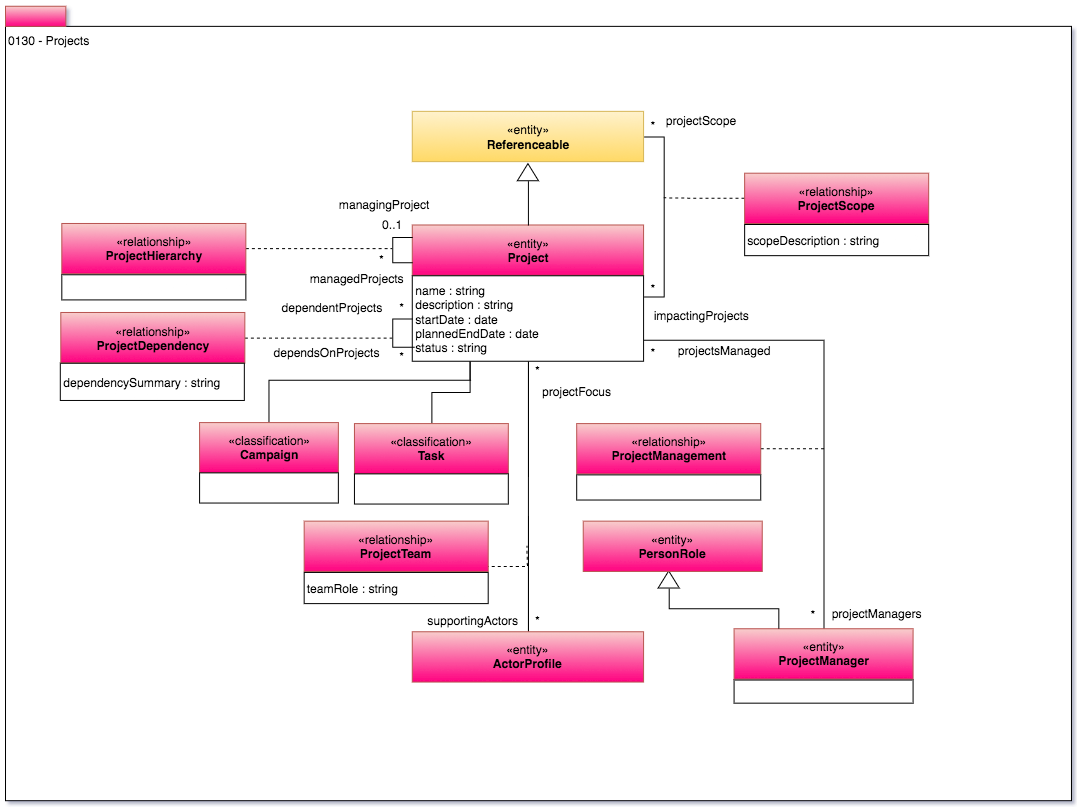
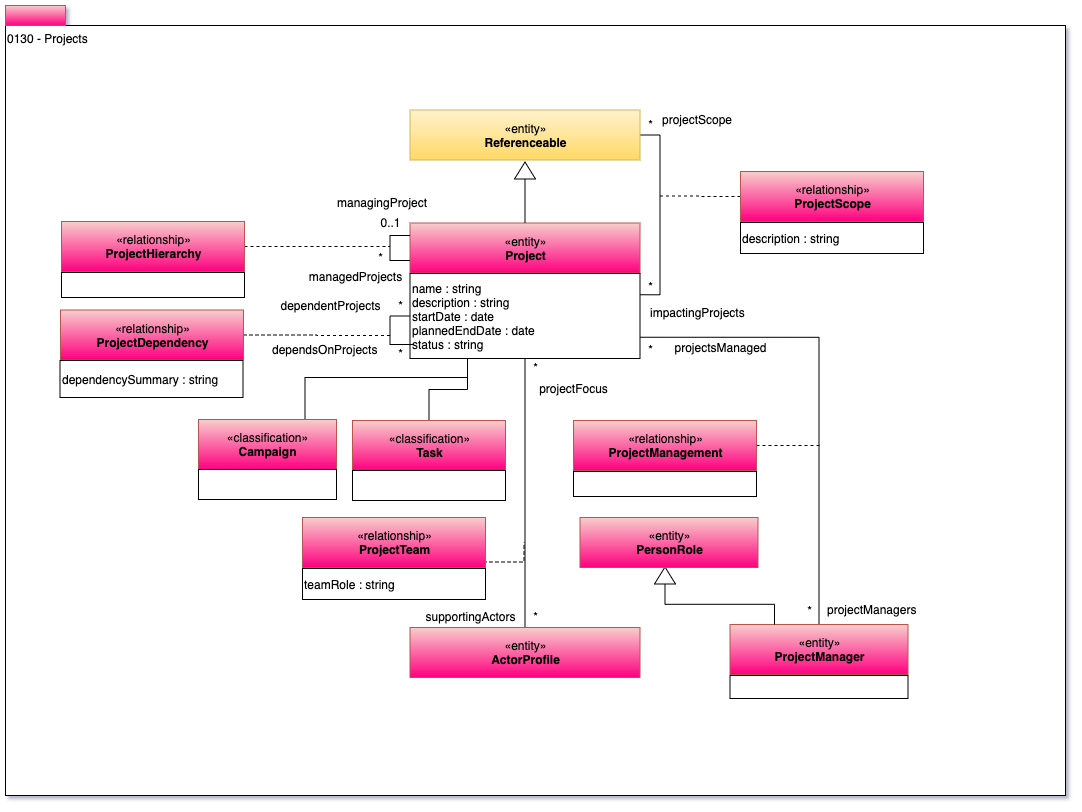
#2942 add documentation

diff --git a/open-metadata-publication/website/open-metadata-types/0130-Projects.md b/open-metadata-publication/website/open-metadata-types/0130-Projects.md
@@ -21,6 +21,8 @@ Since it is a Referenceable, it can have links to external URLs,
 such as the project home page, project plan or APIs
 as well as images (see [0015 Linked Media Types](0015-Linked-Media-Types.md) in Area 0).
 
+The description attribute should be used instead of the scopeDescription in ProjectScope; the 
+scopeDescription attribute has been deprecated.  
 
 Return to [Area 1](Area-1-models.md).
 
